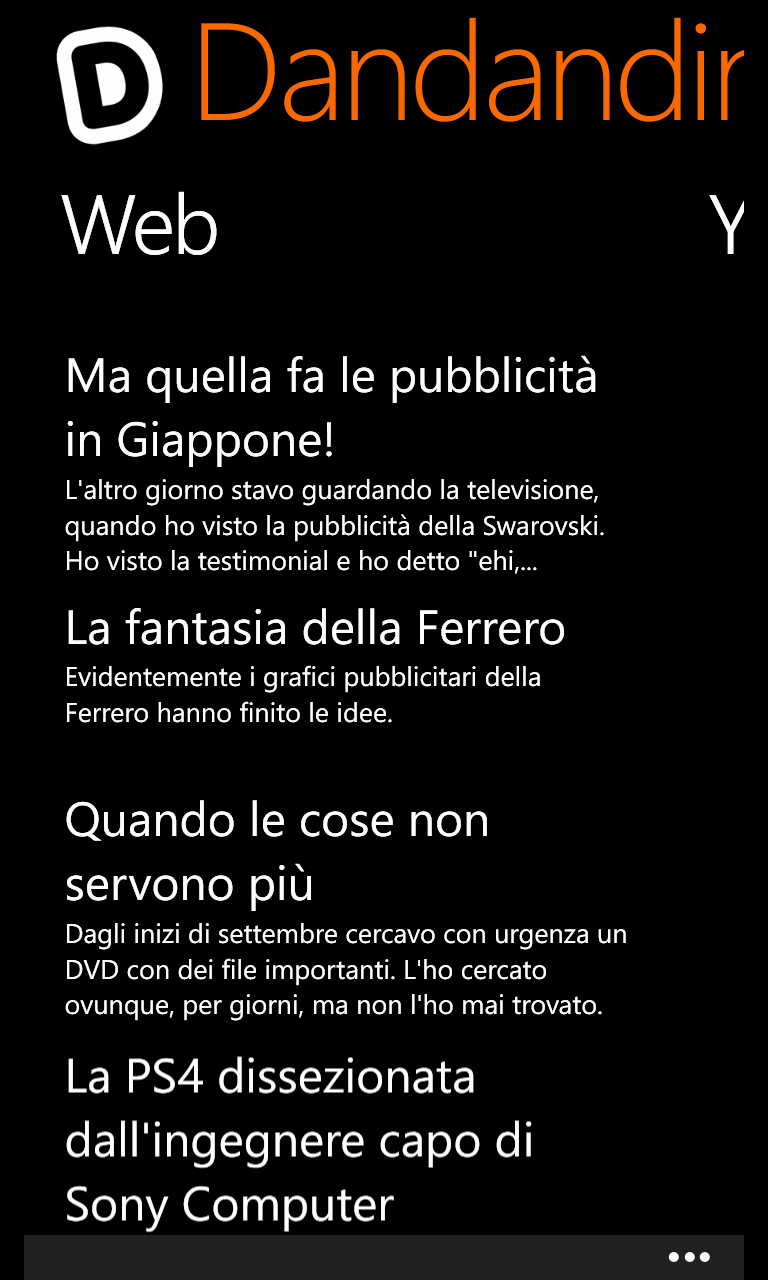
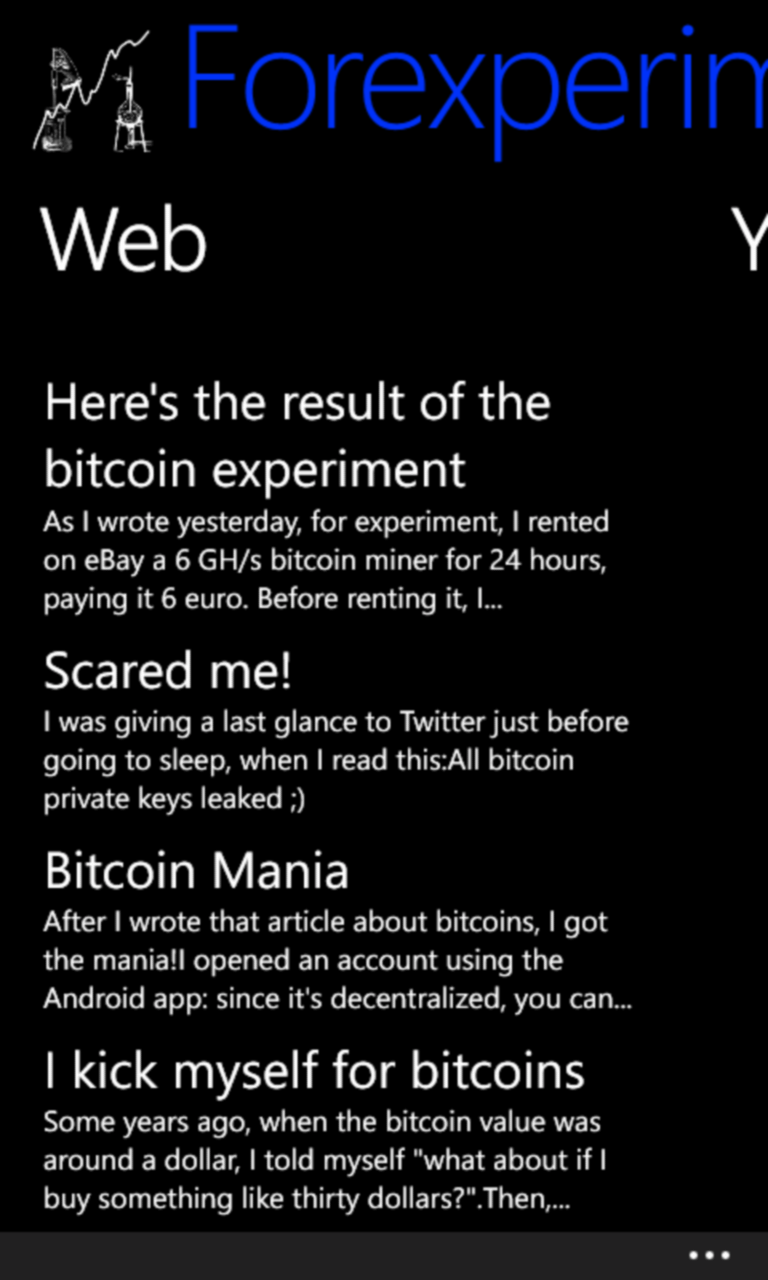
Forked xD

diff --git a/WP8App/View/About.xaml b/WP8App/View/About.xaml
@@ -35,7 +35,7 @@
         </toolkit:NavigationOutTransition>
     </toolkit:TransitionService.NavigationOutTransition>
     <phone:PhoneApplicationPage.Resources>
-	    <Style x:Key="ShareButtonStyle" TargetType="Button">
+        <Style x:Key="ShareButtonStyle" TargetType="Button">
             <Setter Property="Background" Value="Transparent"/>
             <Setter Property="BorderBrush" Value="{StaticResource CustomApplicationTextBrush}"/>
             <Setter Property="Foreground" Value="{StaticResource CustomApplicationTextBrush}"/>
@@ -89,24 +89,27 @@
         </Style>
     </phone:PhoneApplicationPage.Resources>
     <Grid x:Name="LayoutRoot" Background="{StaticResource CustomApplicationBackgroundBrush}">
-		<Grid.RowDefinitions>
+        <Grid.RowDefinitions>
             <RowDefinition Height="Auto"/>
             <RowDefinition Height="*"/>
         </Grid.RowDefinitions>
         <StackPanel Grid.Row="0" Margin="21,17,0,28">
-            <TextBlock Text="{Binding Title}" FontSize="20" />
+            <TextBlock Text="Forexperiments.com" FontSize="20" />
             <TextBlock Text="About" FontSize="72" />
         </StackPanel>
         <Grid x:Name="ContentPanel" Grid.Row="1" Margin="21,0,12,0">
-			<ScrollViewer>
-				<StackPanel>
-					<TextBlock Text="{Binding Description}" TextWrapping="Wrap"/>
-					<TextBlock Text="{Binding Version}" TextWrapping="Wrap" Margin="0, 25"/>
+            <ScrollViewer>
+                <StackPanel>
+                    <TextBlock TextWrapping="Wrap">
+						<Run Text="Get Forexperiments.com on your "/>
+						<Run Text="Windows Phone!"/>
+                    </TextBlock>
+                    <TextBlock Text="{Binding Version}" TextWrapping="Wrap" Margin="0, 25"/>
                     <HyperlinkButton Content="Third Parties license terms" Foreground="{StaticResource CustomApplicationTextBrush}" Command="{Binding LicenseCommand}"/>
-					<Button Content="{Binding Path=LocalizedResources.ShareApp, Source={StaticResource LocalizedStrings}}" Command="{Binding ShareAppCommand}" 
+                    <Button Content="{Binding Path=LocalizedResources.ShareApp, Source={StaticResource LocalizedStrings}}" Command="{Binding ShareAppCommand}" 
 							Style="{StaticResource ShareButtonStyle}"/>
-				</StackPanel>
-			</ScrollViewer>
-		</Grid>
-	</Grid>
+                </StackPanel>
+            </ScrollViewer>
+        </Grid>
+    </Grid>
 </phone:PhoneApplicationPage>

diff --git a/WP8App/View/Web_News.xaml b/WP8App/View/Web_News.xaml
@@ -77,8 +77,8 @@
         <phone:Panorama x:Name="PanoramaWeb_News" Grid.Row="2" Foreground="{StaticResource CustomApplicationTextBrush}" Background="{StaticResource CustomApplicationBackgroundBrush}" SelectionChanged="panoramaWeb_News_SelectionChanged">
 		    <phone:Panorama.Title>
 				<StackPanel Orientation="Horizontal" Margin="0,15,0,0">
-					<Image Height="85" Width="85" Source="http://appstudiodata.blob.core.windows.net/apps/249348/a39b6036-74f2-448a-87c3-9a0df799de14/res/Logo-e5fdb3ff-dfbe-482b-8e55-b7902363885e.png" Stretch="Uniform" VerticalAlignment="Bottom" HorizontalAlignment="Left" Margin="5,0,10,5" RenderTransformOrigin="0.5,0.5" />
-					<TextBlock FontSize="92" Text="Dandandin.it" FontFamily="Segoe WP Light" Foreground="{StaticResource CustomTitleApplicationTextBrush}" VerticalAlignment="Stretch"/>
+					<Image Height="85" Width="85" Source="/Images/Logo.png" Stretch="Uniform" VerticalAlignment="Bottom" HorizontalAlignment="Left" Margin="5,0,10,5" RenderTransformOrigin="0.5,0.5" />
+					<TextBlock FontSize="92" Text="Forexperiments.com" FontFamily="Segoe WP Light" Foreground="{StaticResource CustomTitleApplicationTextBrush}" VerticalAlignment="Stretch"/>
                 </StackPanel>
             </phone:Panorama.Title>
 			<phone:PanoramaItem x:Name="PanoramaWeb_News0" Margin="0,0,0,25">

diff --git a/WP8App/App.xaml b/WP8App/App.xaml
@@ -32,7 +32,7 @@
 		<!-- Resources -->
         <Color x:Key="CustomApplicationAppBarBackgroundColor">#212021</Color>                
 
-		<SolidColorBrush x:Key="CustomTitleApplicationTextBrush" Color="#fa6800" />
+		<SolidColorBrush x:Key="CustomTitleApplicationTextBrush" Color="#FF0032FA" />
 		<SolidColorBrush x:Key="CustomApplicationTextBrush" Color="#ffffff" />
 		<SolidColorBrush x:Key="CustomApplicationBackgroundBrush" Color="#000" />
 		<SolidColorBrush x:Key="CustomApplicationAppBarBackgroundBrush" Color="{StaticResource CustomApplicationAppBarBackgroundColor}"/>

diff --git a/Repositories/Web_RSS.cs b/Repositories/Web_RSS.cs
@@ -33,7 +33,7 @@ namespace WPAppStudio.Repositories
 	    private IServices.IStorageService _storageService;
         private IServices.IInternetService _internetService;
 
-		private const string RssUrl = "http://www.dandandin.it/Blog/RSS.aspx?p=1~2~-1&r=f3a58073-d9c8-496e-af7b-f4ee2ae8dd40";
+        private const string RssUrl = "http://feeds.feedburner.com/Forexperimentations";
 
         /// <summary>
         /// Initializes a new instance of the <see cref="Web_RSS" /> class.
@@ -49,7 +49,7 @@ namespace WPAppStudio.Repositories
         }
 
         /// <summary>
-        /// Retrieves the data from a RSS data source (http://www.dandandin.it/Blog/RSS.aspx?p=1~2~-1&r=f3a58073-d9c8-496e-af7b-f4ee2ae8dd40), in an observable collection of RssSearchResult items.
+        /// Retrieves the data from a RSS data source (http://feeds.feedburner.com/Forexperimentations), in an observable collection of RssSearchResult items.
         /// </summary>
         /// <returns>An observable collection of RssSearchResult items.</returns>
         public async Task<ObservableCollection<EntitiesBase.RssSearchResult>> GetData()
@@ -65,7 +65,7 @@ namespace WPAppStudio.Repositories
         }
 
         /// <summary>
-        /// Retrieves the data from a RSS data source (http://www.dandandin.it/Blog/RSS.aspx?p=1~2~-1&r=f3a58073-d9c8-496e-af7b-f4ee2ae8dd40), in an observable collection of RssSearchResult items.
+        /// Retrieves the data from a RSS data source (http://feeds.feedburner.com/Forexperimentations), in an observable collection of RssSearchResult items.
         /// </summary>
         /// <returns>An observable collection of RssSearchResult items.</returns>
         public async Task<ObservableCollection<EntitiesBase.RssSearchResult>> Refresh()
@@ -86,7 +86,7 @@ namespace WPAppStudio.Repositories
         }
 						
 		/// <summary>
-        /// Retrieves the data from a RSS data source (http://www.dandandin.it/Blog/RSS.aspx?p=1~2~-1&r=f3a58073-d9c8-496e-af7b-f4ee2ae8dd40), filtered by a filter specification, in an observable collection of RssSearchResult items.
+        /// Retrieves the data from a RSS data source (http://feeds.feedburner.com/Forexperimentations), filtered by a filter specification, in an observable collection of RssSearchResult items.
         /// </summary>
 		/// <param name="filter">Filter operation specification</param>
         /// <returns>An observable collection of RssSearchResult items.</returns>

diff --git a/Repositories/Facebook_Facebook.cs b/Repositories/Facebook_Facebook.cs
@@ -33,7 +33,7 @@ namespace WPAppStudio.Repositories
 	    private IServices.IStorageService _storageService;
         private IServices.IInternetService _internetService;
 
-		private const string RssUrl = "https://www.facebook.com/feeds/page.php?format=rss20&id=125252329504";
+        private const string RssUrl = "https://www.facebook.com/feeds/page.php?format=rss20&id=517946014910360";
 
         /// <summary>
         /// Initializes a new instance of the <see cref="Facebook_Facebook" /> class.
@@ -49,7 +49,7 @@ namespace WPAppStudio.Repositories
         }
 
         /// <summary>
-        /// Retrieves the data from a RSS data source (https://www.facebook.com/feeds/page.php?format=rss20&id=125252329504), in an observable collection of RssSearchResult items.
+        /// Retrieves the data from a RSS data source (https://www.facebook.com/feeds/page.php?format=rss20&id=517946014910360), in an observable collection of RssSearchResult items.
         /// </summary>
         /// <returns>An observable collection of RssSearchResult items.</returns>
         public async Task<ObservableCollection<EntitiesBase.RssSearchResult>> GetData()
@@ -65,7 +65,7 @@ namespace WPAppStudio.Repositories
         }
 
         /// <summary>
-        /// Retrieves the data from a RSS data source (https://www.facebook.com/feeds/page.php?format=rss20&id=125252329504), in an observable collection of RssSearchResult items.
+        /// Retrieves the data from a RSS data source (https://www.facebook.com/feeds/page.php?format=rss20&id=517946014910360), in an observable collection of RssSearchResult items.
         /// </summary>
         /// <returns>An observable collection of RssSearchResult items.</returns>
         public async Task<ObservableCollection<EntitiesBase.RssSearchResult>> Refresh()

diff --git a/WP8App/Properties/AssemblyInfo.cs b/WP8App/Properties/AssemblyInfo.cs
@@ -5,11 +5,11 @@ using System.Resources;
 // General Information about an assembly is controlled through the following
 // set of attributes. Change these attribute values to modify the information
 // associated with an assembly.
-[assembly: AssemblyTitle("WPAppStudio")]
+[assembly: AssemblyTitle("Forexperiments")]
 [assembly: AssemblyDescription("")]
 [assembly: AssemblyConfiguration("")]
 [assembly: AssemblyCompany("")]
-[assembly: AssemblyProduct("WPAppStudio")]
+[assembly: AssemblyProduct("Forexperiments")]
 [assembly: AssemblyCopyright("Copyright ©  2013")]
 [assembly: AssemblyTrademark("")]
 [assembly: AssemblyCulture("")]
@@ -20,7 +20,7 @@ using System.Resources;
 [assembly: ComVisible(false)]
 
 // The following GUID is for the ID of the typelib if this project is exposed to COM
-[assembly: Guid("ced4cb1f-d5ab-424c-9931-95564f6c97de")]
+[assembly: Guid("b65f3ea4-948d-40c5-b98d-0db06eb8a6d3")]
 
 [assembly: AssemblyVersion("1.0.0.0")]
 [assembly: AssemblyFileVersion("1.0.0.0")]

diff --git a/Repositories/YouTube_YouTube.cs b/Repositories/YouTube_YouTube.cs
@@ -34,7 +34,7 @@ namespace WPAppStudio.Repositories
 		private const int MaxResults = 10;
 		
 		private const string YoutubeBaseUrl = "https://gdata.youtube.com/feeds/api/users/{0}/uploads?v=2";
-		private const string YoutubeQuery = @"Magneticdud";
+        private const string YoutubeQuery = @"Forexperiments";
 		private const string YoutubePaginationParameters = "&start-index={1}&max-results={2}";
 
         /// <summary>
